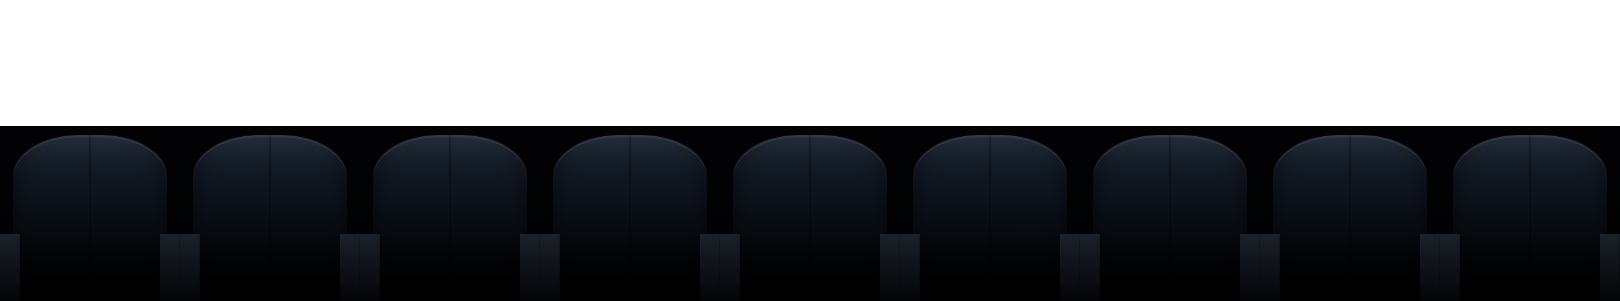
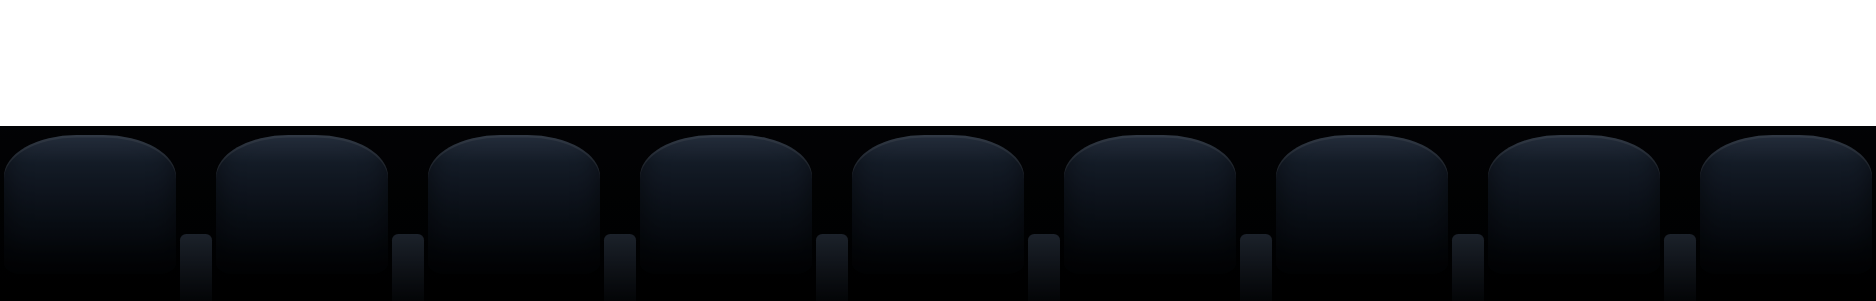
Seat Lab aisle walk: size and armrest sliders, fixed three rows
Removes the seat-back seam, makes seats 1.3x larger with a Size slider,
adds an Arms slider for the armrest gap, keeps seats large on phones,
and stops the walk from revealing rows that were not visible at the start.

Claude-Session: https://claude.ai/code/session_01GDgtUCjcDkxRjskmjmJ3ca

diff --git a/site/lab/seats/index.html b/site/lab/seats/index.html
@@ -106,8 +106,24 @@ permalink: /lab/seats/
   .tabs button[aria-pressed="true"] { background: var(--paper); color: var(--ink); border-color: var(--paper); }
   .toggle[aria-pressed="true"] { color: var(--accent); border-color: color-mix(in oklch, var(--accent) 60%, var(--rule)); }
   .tabs button:focus-visible, .toggle:focus-visible { outline: 2px solid var(--accent); outline-offset: 2px; }
-  .slider { display: flex; align-items: center; gap: 8px; color: var(--muted); text-transform: uppercase; white-space: nowrap; }
-  .slider input { width: 88px; accent-color: var(--accent); }
+  .tune {
+    position: fixed;
+    z-index: 10;
+    top: calc(var(--bar-h) + 10px);
+    right: calc(var(--side) + 10px);
+    display: grid;
+    gap: 10px;
+    padding: 10px 14px;
+    background: oklch(7% 0.005 245 / 0.92);
+    border: 1px solid var(--rule);
+    font-family: var(--font-display);
+    font-size: 12px;
+    letter-spacing: 0.06em;
+  }
+  .tune summary { cursor: pointer; color: var(--accent); text-transform: uppercase; }
+  .tune summary:focus-visible { outline: 2px solid var(--accent); outline-offset: 2px; }
+  .slider { display: flex; justify-content: space-between; align-items: center; gap: 8px; color: var(--muted); text-transform: uppercase; white-space: nowrap; }
+  .slider input { width: 110px; accent-color: var(--accent); }
   .slider output { min-width: 5.2em; font-variant-numeric: tabular-nums; color: var(--paper); text-transform: none; }
   .readout { color: var(--muted); min-width: 4.5em; text-align: right; font-variant-numeric: tabular-nums; white-space: nowrap; }
 
@@ -183,7 +199,7 @@ permalink: /lab/seats/
     top: 0;
     display: flex;
     align-items: flex-end;
-    gap: 0;
+    gap: var(--arm);
     font-size: calc(var(--sw) / 10);
     transform-origin: 50% 100%;
     will-change: transform;
@@ -201,25 +217,25 @@ permalink: /lab/seats/
   .seat::before {
     content: "";
     position: absolute;
-    inset: 0 7% 16% 7%;
+    inset: 0 2% 16% 2%;
     z-index: 1;
     border-radius: 42% 42% 10% 10% / 30% 30% 8% 8%;
     background:
-      linear-gradient(90deg, transparent 49%, oklch(5% 0 0 / 0.4) 50%, transparent 51%),
       linear-gradient(180deg, oklch(47% 0.05 258) 0%, oklch(33% 0.045 258) 20%, oklch(22% 0.03 258) 60%, oklch(13% 0.015 258) 100%);
     box-shadow: inset 0 0.14em 0 oklch(100% 0 0 / 0.14), inset 0 -1.2em 1.4em oklch(0% 0 0 / 0.55);
   }
+  /* The armrest lives in the gap to the left of each seat; the gap width is
+     the Arms setting (--arm). */
   .seat::after {
     content: "";
     position: absolute;
-    left: 0;
-    right: 0;
+    left: calc(var(--arm) * -1);
     bottom: 0;
+    width: var(--arm);
     height: 40%;
     z-index: 2;
-    background:
-      linear-gradient(180deg, oklch(38% 0.035 258), oklch(14% 0.01 258)) left bottom / 11% 100% no-repeat,
-      linear-gradient(180deg, oklch(38% 0.035 258), oklch(14% 0.01 258)) right bottom / 11% 100% no-repeat;
+    border-radius: 0.35em 0.35em 0 0;
+    background: linear-gradient(180deg, oklch(38% 0.035 258), oklch(14% 0.01 258));
   }
   .aisle { position: relative; flex: none; width: calc(var(--sw) * 0.6); height: calc(var(--sw) * 0.92); }
   .aisle i {
@@ -285,11 +301,17 @@ permalink: /lab/seats/
     <button type="button" id="tab-d" data-v="d" aria-pressed="false">D · Stack</button>
     <button type="button" id="tab-e" data-v="e" aria-pressed="false">E · Image rows</button>
   </div>
-  <label class="slider" for="s-walk">Walk <input type="range" id="s-walk" min="0.5" max="3" step="0.25" value="1.5"><output id="o-walk">1.5 rows</output></label>
-  <label class="slider" for="s-look">Look <input type="range" id="s-look" min="0" max="100" step="5" value="20"><output id="o-look">20%</output></label>
   <button type="button" class="toggle" id="t-motion" aria-pressed="true">Motion</button>
   <span class="readout" id="readout" aria-live="off">0%</span>
 </header>
+
+<details class="tune" id="tune" open>
+  <summary>Tune</summary>
+  <label class="slider" for="s-size">Size <input type="range" id="s-size" min="0.8" max="2" step="0.05" value="1.3"><output id="o-size">1.30×</output></label>
+  <label class="slider" for="s-arm">Arms <input type="range" id="s-arm" min="0" max="40" step="1" value="18"><output id="o-arm">18%</output></label>
+  <label class="slider" for="s-walk">Walk <input type="range" id="s-walk" min="0" max="2" step="0.25" value="1.5"><output id="o-walk">1.5 rows</output></label>
+  <label class="slider" for="s-look">Look <input type="range" id="s-look" min="0" max="100" step="5" value="20"><output id="o-look">20%</output></label>
+</details>
 
 <div class="room" id="room" aria-hidden="true"></div>
 
@@ -357,9 +379,9 @@ permalink: /lab/seats/
 <div class="hall" id="stack" aria-hidden="true"></div>
 <div id="floor" aria-hidden="true"></div>
 <div class="hall" id="images" aria-hidden="true">
-  <img id="img-back" src="rows/seats-back.png" width="3348" height="301" alt="">
-  <img id="img-mid" src="rows/seats-mid.png" width="2416" height="301" alt="">
-  <img id="img-front" src="rows/seats-front.png" width="1671" height="301" alt="">
+  <img id="img-back" src="rows/seats-back.png" width="3784" height="301" alt="">
+  <img id="img-mid" src="rows/seats-mid.png" width="2724" height="301" alt="">
+  <img id="img-front" src="rows/seats-front.png" width="1876" height="301" alt="">
 </div>
 
 <script>
@@ -376,9 +398,9 @@ permalink: /lab/seats/
   var NOTES = {
     a: {
       title: 'A · Aisle walk',
-      desc: 'Solid rows of empty seats in real perspective, never more than three at a time. As you scroll, you walk slowly down the raked floor: the nearest row grows and slides out under the bottom edge, and the next row rises into place from behind. Movement is eased, so the room glides after your scroll instead of snapping. Orange step lights mark the aisles. Tune it with Walk (rows travelled over the whole page) and Look (how much the room follows the pointer).',
+      desc: 'Three solid rows of empty seats in real perspective. They are the only rows: as you scroll, you walk slowly down the raked floor, the nearest row grows and slides out under the bottom edge, and nothing new appears behind. By the end of the page you are closer to the screen with fewer rows in front of you. Movement is eased, so the room glides after your scroll instead of snapping. Orange step lights mark the aisles. Tune it in the panel: Size (seat size), Arms (armrest width between seats), Walk (rows passed over the whole page) and Look (how much the room follows the pointer).',
       pros: ['The strongest feeling of moving through the auditorium, now calm enough to read over.', 'Transforms only, so it runs in every browser, including Safari and Firefox.', 'Rows are drawn in CSS: no image to load, sharp at any size, easy to recolour per edition.'],
-      cons: ['Page length changes the walking speed; long pages walk slower at the same setting.', 'Rows cover roughly the bottom fifth of the viewport, so the lowest text of each screen sits behind them until scrolled.', 'About 200 small elements; fine on laptops, worth a check on old phones.'],
+      cons: ['Page length changes the walking speed; long pages walk slower at the same setting.', 'Rows cover roughly the bottom fifth of the viewport at 1.3x, so the lowest text of each screen sits behind them until scrolled; Size changes that.', 'With Walk at 2 you pass two of the three rows, so only one row is left at the end of the page.'],
       effort: 'Medium: one JS module plus CSS, replaces cinema-seats.png.',
       best: 'Homepage and festival edition pages.'
     },
@@ -419,7 +441,7 @@ permalink: /lab/seats/
   var V = 'a';
   var W = 0, H = 0, barH = 52, bottomPx = 100, sw = 100;
   var mx = 0, mxT = 0, ps = 0;
-  var walkRows = 1.5, lookK = 0.2;
+  var walkRows = 1.5, lookK = 0.2, sizeK = 1.3, armK = 0.18;
   var reduce = window.matchMedia('(prefers-reduced-motion: reduce)');
   var motion = !reduce.matches;
   var rows = [], stack = [], imgs = [];
@@ -453,13 +475,17 @@ permalink: /lab/seats/
     H = window.innerHeight;
     var cs = getComputedStyle(doc);
     bottomPx = clamp(0.12 * H, 88, 136);
-    sw = Math.round(Math.max(W / 7, H * 0.11));
-    rowsWrap.style.setProperty('--sw', sw + 'px');
-    stackWrap.style.setProperty('--sw', sw + 'px');
+    // Phones keep a physically large seat: about three across at 1.3x.
+    sw = Math.round((W < 700 ? W / 4.2 : Math.max(W / 7, H * 0.11)) * sizeK);
+    var arm = Math.round(sw * armK);
+    [rowsWrap, stackWrap].forEach(function (w) {
+      w.style.setProperty('--sw', sw + 'px');
+      w.style.setProperty('--arm', arm + 'px');
+    });
 
     rowsWrap.textContent = '';
     rows = [];
-    for (var i = 0; i < 8; i++) {
+    for (var i = 0; i < 3; i++) {
       var el = buildRow(34, [10, 24]);
       rowsWrap.appendChild(el);
       rows.push({ el: el });
@@ -498,16 +524,18 @@ permalink: /lab/seats/
 
   // Rows sit on a raked floor. d is the distance (in rows) ahead of the viewer;
   // a simple pinhole projection turns it into scale and screen position.
-  // At most three rows are on screen. A passing row slides fully below the
-  // bottom edge (no fading), and the third row rises out from behind the
-  // second one instead of popping in.
+  // Exactly three rows exist. A passing row slides fully below the bottom
+  // edge (no fading) and no new row is ever revealed behind them.
   function walk(k, lit) {
-    var P = 1.2 * H, D = 0.8 * H, drop = 0.133 * H, eye = 0.5 * H, hz = 0.6 * H;
+    // Geometry is measured in seat heights, so a phone and a laptop show the
+    // same composition: the front row's top third sits inside the viewport.
+    var h = rows[0].h;
+    var P = 1.2 * H, D = 0.8 * H, drop = 0.49 * h, eye = 1.83 * h, hz = H + 0.37 * h - eye;
     rows.forEach(function (r, i) {
       var d = i - k;
       if (d <= -0.95 || d >= 3) { place(r, 0, 0, 1, 0, 1, 0); return; }
       var s = P / (P + D * d);
-      var y = hz + (eye + drop * d) * s + clamp(d - 2, 0, 1) * r.h * s;
+      var y = hz + (eye + drop * d) * s;
       var br = (0.5 + 0.1 * Math.max(0, d)) * lit;
       var cx = W / 2 - mx * 0.07 * lookK * W * s;
       place(r, cx, y, s, 1, br, 1000 - Math.round(d * 100));
@@ -625,6 +653,19 @@ permalink: /lab/seats/
     document.getElementById('o-walk').textContent = walkRows + (walkRows === 1 ? ' row' : ' rows');
     request();
   });
+  var sizeIn = document.getElementById('s-size'), armIn = document.getElementById('s-arm');
+  sizeIn.addEventListener('input', function () {
+    sizeK = parseFloat(sizeIn.value);
+    document.getElementById('o-size').textContent = sizeK.toFixed(2) + '×';
+    build();
+    request();
+  });
+  armIn.addEventListener('input', function () {
+    armK = parseInt(armIn.value, 10) / 100;
+    document.getElementById('o-arm').textContent = armIn.value + '%';
+    build();
+    request();
+  });
   lookIn.addEventListener('input', function () {
     lookK = parseInt(lookIn.value, 10) / 100;
     document.getElementById('o-look').textContent = lookIn.value + '%';
@@ -648,6 +689,7 @@ permalink: /lab/seats/
     resizeTimer = setTimeout(function () { build(); frame(); }, 120);
   });
 
+  if (window.innerWidth < 700) document.getElementById('tune').open = false;
   build();
   var start = (location.hash || '').replace('#', '');
   if (!NOTES[start]) { try { start = localStorage.getItem('bff-seat-lab') || 'a'; } catch (e) { start = 'a'; } }

diff --git a/scripts/seat-rows/render.html b/scripts/seat-rows/render.html
@@ -51,7 +51,7 @@
     top: 0;
     display: flex;
     align-items: flex-end;
-    gap: 0;
+    gap: var(--arm);
     font-size: calc(var(--sw) / 10);
     transform-origin: 50% 100%;
     will-change: transform;
@@ -69,25 +69,25 @@
   .seat::before {
     content: "";
     position: absolute;
-    inset: 0 7% 16% 7%;
+    inset: 0 2% 16% 2%;
     z-index: 1;
     border-radius: 42% 42% 10% 10% / 30% 30% 8% 8%;
     background:
-      linear-gradient(90deg, transparent 49%, oklch(5% 0 0 / 0.4) 50%, transparent 51%),
       linear-gradient(180deg, oklch(47% 0.05 258) 0%, oklch(33% 0.045 258) 20%, oklch(22% 0.03 258) 60%, oklch(13% 0.015 258) 100%);
     box-shadow: inset 0 0.14em 0 oklch(100% 0 0 / 0.14), inset 0 -1.2em 1.4em oklch(0% 0 0 / 0.55);
   }
+  /* The armrest lives in the gap to the left of each seat; the gap width is
+     the Arms setting (--arm). */
   .seat::after {
     content: "";
     position: absolute;
-    left: 0;
-    right: 0;
+    left: calc(var(--arm) * -1);
     bottom: 0;
+    width: var(--arm);
     height: 40%;
     z-index: 2;
-    background:
-      linear-gradient(180deg, oklch(38% 0.035 258), oklch(14% 0.01 258)) left bottom / 11% 100% no-repeat,
-      linear-gradient(180deg, oklch(38% 0.035 258), oklch(14% 0.01 258)) right bottom / 11% 100% no-repeat;
+    border-radius: 0.35em 0.35em 0 0;
+    background: linear-gradient(180deg, oklch(38% 0.035 258), oklch(14% 0.01 258));
   }
   .aisle { position: relative; flex: none; width: calc(var(--sw) * 0.6); height: calc(var(--sw) * 0.92); }
   .aisle i {
@@ -109,5 +109,5 @@ body::before{display:none}
 </style></head><body><div id=w></div><script>
 function occ(i,j){return false}
 window.make=function(n,i,rab,sw){var h='';for(var j=0;j<n;j++){var o=occ(i,j)||j===rab;h+='<span class="seat">'+(o?'<i class="head'+(j===rab?' rabbit':'')+'"></i>':'')+'</span>'}
-var w=document.getElementById('w');w.innerHTML='<div class=row id=r style="--sw:'+sw+'px">'+h+'</div>';}
+var w=document.getElementById('w');w.innerHTML='<div class=row id=r style="--sw:'+sw+'px;--arm:'+Math.round(sw*0.18)+'px">'+h+'</div>';}
 </script></body></html>

diff --git a/HANDOFF-SEAT-LAB.md b/HANDOFF-SEAT-LAB.md
@@ -20,6 +20,16 @@ Owner wants the site to feel like sitting in a cinema: the screen in the middle,
 - Likes **A Aisle walk**. Requirements applied: no audience (heads removed everywhere, E images re-rendered empty), seats fully solid (no gaps between seats, dark backing under bases/aisles, passing rows slide off the bottom instead of fading), **max 3 rows on screen** (third row rises from behind the second), gentler motion.
 - Motion is now eased (scroll progress lerp 0.09/frame, pointer lerp 0.06/frame). Defaults: Walk = 1.5 rows across the whole page, Look = 20% of the original pointer strength. Both are sliders in the lab bar so the owner can tune; carry the chosen values into production.
 
+## Owner feedback, round 3 (2026-09-28)
+- No vertical seam on seat backs (removed).
+- Seats 1.3x bigger by default; **Size** slider (0.8–2x).
+- **Arms** slider = armrest width = gap between seats (0–40% of seat width, default 18%). Armrest is drawn as `.seat::after` in the gap to the left of each seat; row `gap: var(--arm)`.
+- Phones keep physically large seats: base seat width is W/4.2 below 700px (about 3 across at 1.3x), else max(W/7, 0.11H).
+- **No row is ever revealed**: exactly 3 rows exist; walking only removes rows off the bottom. Walk slider max is 2 (then one row remains).
+- Walk geometry is now in seat-height units (eye 1.83h, drop 0.49h, front row bottom at H + 0.37h), so phone and desktop compose the same.
+- Tuning controls moved to a collapsible "Tune" panel (collapsed on phones).
+- Current defaults to carry into production: Size 1.3, Arms 18%, Walk 1.5 rows, Look 20%.
+
 ## Verified
 - Jekyll build passes locally with the lab page (needs `LANG=C.UTF-8` in a bare container, otherwise SCSS fails on UTF-8).
 - Headless Chromium screenshots of all five versions at 0/20/60% scroll: no JS errors, all render.

diff --git a/CHANGELOG.md b/CHANGELOG.md
@@ -7,6 +7,7 @@ Short, human-readable record of public website changes. One dated entry is requi
 - Added a hidden, noindexed prototype page at `/lab/seats/` with five switchable seat effects: aisle walk, take your seat, raked floor, parallax stack and image rows.
 - Added three transparent seat-row images for the image-rows version and the script that renders them.
 - Refined the chosen aisle walk: solid rows without audience, at most three rows on screen, eased scroll and pointer motion, and Walk/Look sliders for tuning.
+- Seat backs lost the centre seam; added Size and Arms sliders, larger seats on phones, and a walk that never reveals new rows.
 - The live site's shared seats are unchanged; the lab exists to pick a version before it replaces `cinema-seats.png`.
 
 ## 2026-09-26 — Add official web-sourced film visual assets batch 1
